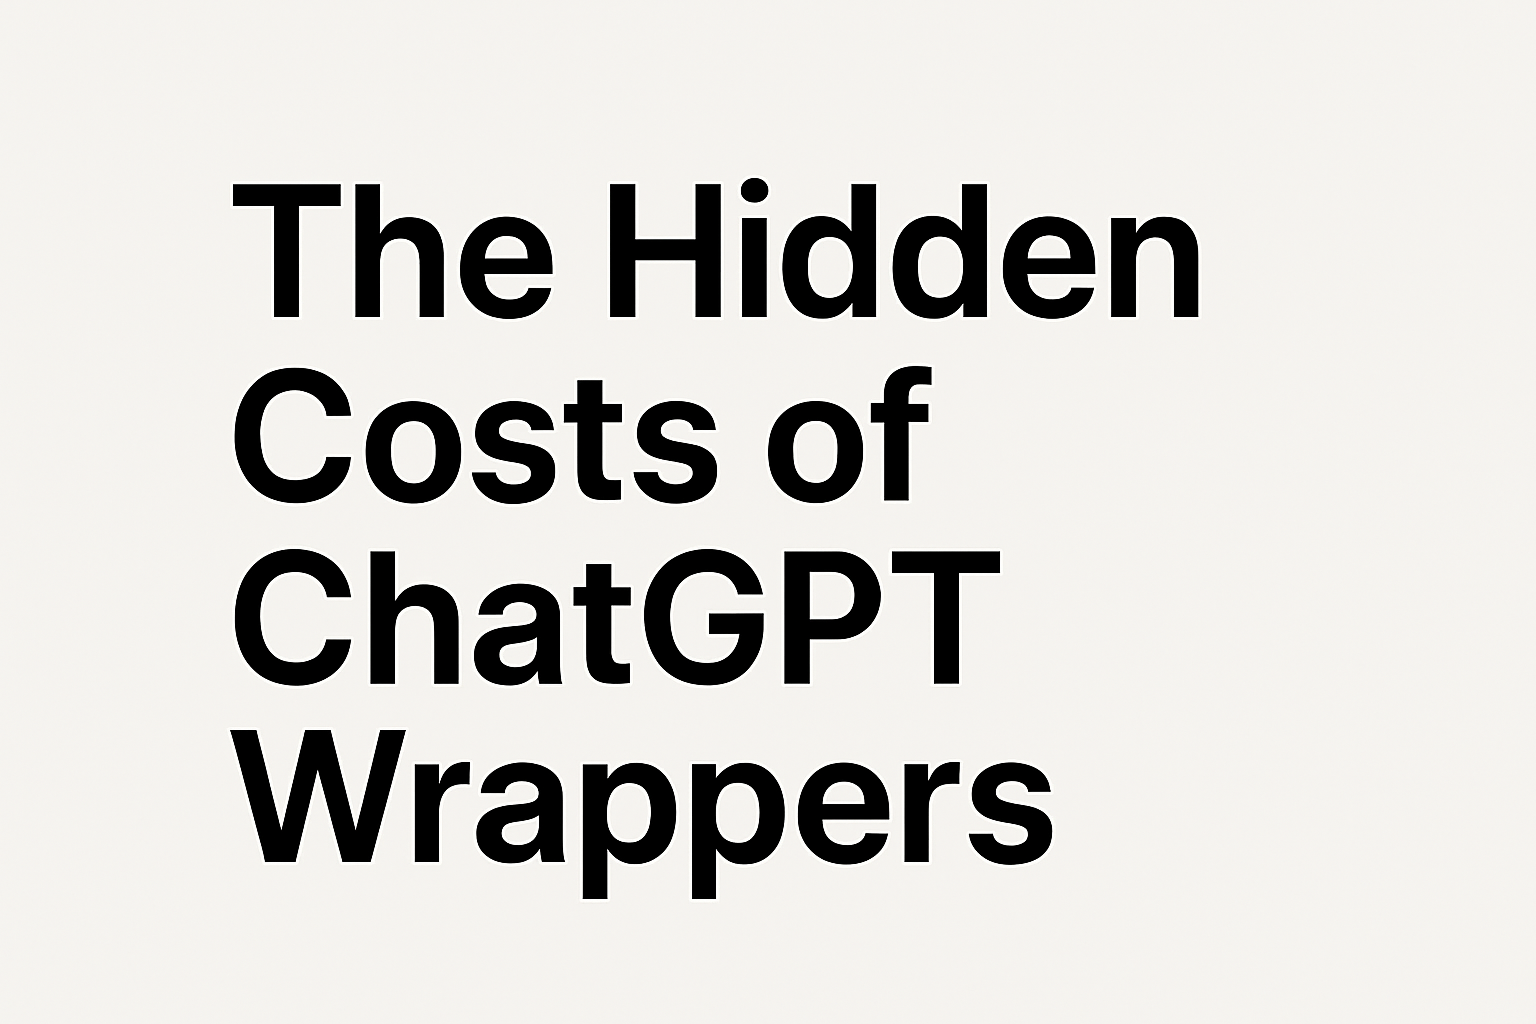
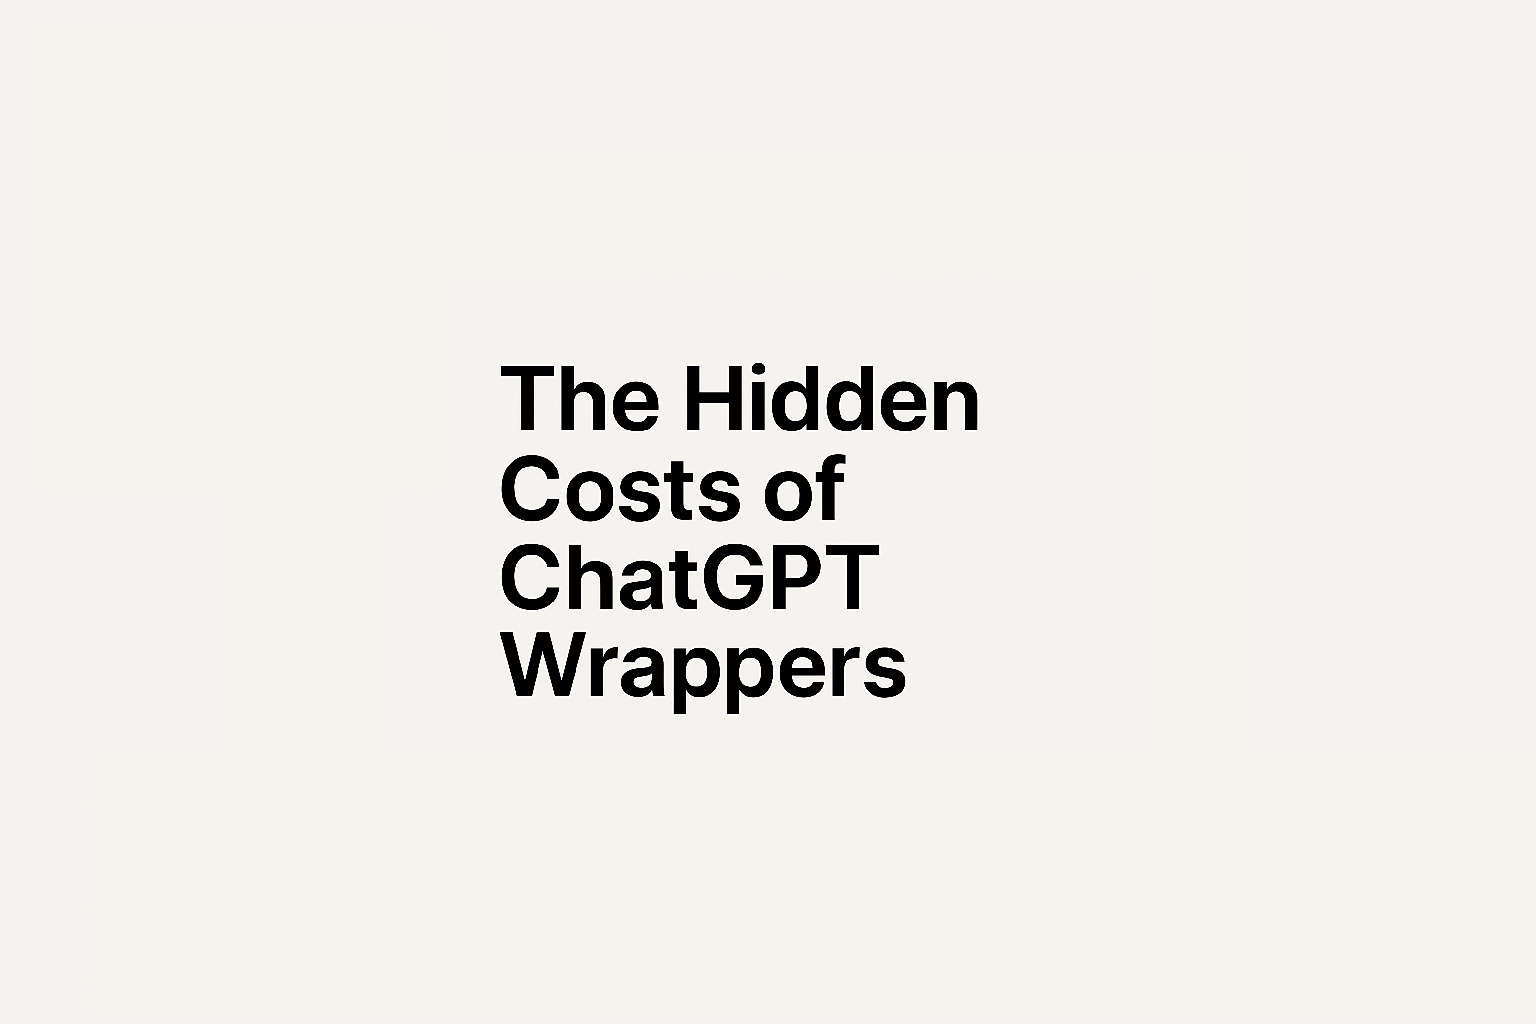
Add SurePrep vs AI tools deep-dive article

Changed region(s): [[0.125, 0.3438, 0.6875, 0.875], [0.1562, 0.1562, 0.7812, 0.3125]]

diff --git a/content/ai/sureprep-in-an-ai-first-world.md b/content/ai/sureprep-in-an-ai-first-world.md
@@ -1,0 +1,271 @@
+---
+title: "SurePrep in an AI-First World: Still Relevant or Being Replaced?"
+description: "A practical look at SurePrep’s template-driven approach vs AI-native 1040 automation: K-1s, brokerage statements, workpapers, and where each option fits."
+author: "Koen Van Duyse"
+authorLinkedIn: "https://www.linkedin.com/in/koenvanduyse/"
+authorReddit: "https://www.reddit.com/user/RepliKoen/"
+authorTPE: "https://www.taxproexchange.com/p/koen-van-duyse-8123510e"
+authorBio: "Koen has been working in AI for the last two years, with an emphasis on conversational AI. In his spare time he is partner of a small tax firm in Southern California and runs the Tax Pro Exchange."
+authorImage: "/images/authors/koen-van-duyse.jpg"
+date: "2025-11-20"
+category: "AI"
+pillar: "Tax Technology"
+slug: "/ai/sureprep-in-an-ai-first-world"
+keywords:
+  - "SurePrep"
+  - "SurePrep alternatives"
+  - "SurePrep vs"
+  - "AI tax automation"
+  - "1040 automation"
+  - "K-1 extraction"
+  - "brokerage 1099 automation"
+  - "UltraTax automation"
+  - "Black Ore"
+  - "Truss tax"
+  - "Solomon Tax"
+  - "HiveTax"
+  - "Juno Tax"
+  - "OCR vs AI tax"
+  - "tax document automation"
+  - "AI for tax professionals"
+  - "SurePrep vs AI tools"
+previewImage: "/images/sueprep.png"
+imageAlt: "Comparison of SurePrep and modern AI-first tax automation tools"
+canonical: "https://www.taxproexchange.com/ai/sureprep-in-an-ai-first-world"
+readingTime: 11
+robots: "index,follow"
+ogTitle: "SurePrep in an AI-First World: Still Relevant or Being Replaced?"
+ogDescription: "SurePrep’s template-driven 1040 automation vs AI-native tools on K-1s, brokerage statements, workpapers, and reviewer workflows."
+ogImage: "/images/og-image.png"
+twitterCard: "summary_large_image"
+twitterTitle: "SurePrep in an AI-First World: Still Relevant?"
+twitterDescription: "How SurePrep’s OCR-driven workflow compares to AI-first tax automation for 1040s."
+twitterImage: "/images/og-image.png"
+schemaType: "Article"
+---
+
+If you complete 1040s, you've probably asked the same question as many other Tax Professionals on Reddit today, "Has SurePrep become the default in 2026 or have we finally reached a point that AI native tools are better than SurePrep, especially for messy K-1's, consolidated 1099s, and long footnotes?"
+
+This is not simply a question of "OCR is bad, AI is good." The answer is much more complicated. From publicly posted experiences on both r/taxpros and r/tax, practitioners have been discussing the areas that SurePrep does exceptionally well in, the areas where SurePrep causes friction and the areas where newer AI first platforms are gaining some real traction. This article combines those publicly expressed experiences with an analysis of the differences between template driven data extraction and model driven AI Systems, so that your firm can determine which type of solution fits best with your particular type of documents.
+
+> **Note:** Any statements made about accuracy or speed within this article relate to the experiences of public practitioners, and NOT the results from internal testing. As such, the accuracy or speed of the claims will likely vary based upon the format of the K-1's, the types of brokerage statements, the quality of the scans, and the expectations of the reviewers.
+
+---
+
+## What SurePrep Still Does Well  
+These strengths are consistently echoed across Reddit.
+
+- **UltraTax depth and ecosystem fit.**  
+  SurePrep remains the reliable choice for UltraTax-centric firms.  
+  <div style="background-color: #f8f9fa; border: 1px solid #e9ecef; border-radius: 8px; padding: 16px; margin: 16px 0; position: relative; overflow: visible;">
+    <a href="https://www.reddit.com/r/taxpros/comments/1cu9gz8/considering_getting_sure_prep_to_use_with_ut/" target="_blank" rel="noopener noreferrer" style="position: absolute; top: 0; right: 0; z-index: 10; display: inline-block; line-height: 0; vertical-align: top;">
+      <img src="https://www.redditstatic.com/desktop2x/img/favicon/favicon-32x32.png" alt="Reddit" width="20" height="20" style="opacity: 0.7; display: block; margin: 0;" />
+    </a>
+    <p style="margin: 0; padding-right: 32px; font-style: italic; color: #495057;">"Every return in our office gets a SurePrep binder… huge gains in efficiency."</p>
+  </div>
+
+- **Standardized workpapers (SPbinder).**  
+  SPbinder’s structure, audit trail, and consistency remain industry benchmarks.
+
+- **High page-count returns with mostly standard docs.**  
+  Template extraction performs reliably when packets are dominated by W-2s, 1099s, 1098s, and organizer pages.
+
+- **Outsourced prep option.**  
+  Still a meaningful differentiator for firms needing predictable overflow capacity.
+
+---
+
+## Where Firms Report Friction  
+These themes appear repeatedly across public practitioner discussions.
+
+### **1. Template sensitivity on complex docs**  
+K-1s, basis schedules, footnotes, and state attachments regularly require manual cleanup.
+
+<div style="background-color: #f8f9fa; border: 1px solid #e9ecef; border-radius: 8px; padding: 16px; margin: 16px 0; position: relative; overflow: visible;">
+  <a href="https://www.reddit.com/r/tax/comments/1kapmmo/k1_extraction_and_automation/" target="_blank" rel="noopener noreferrer" style="position: absolute; top: 0; right: 0; z-index: 10; display: inline-block; line-height: 0; vertical-align: top;">
+    <img src="https://www.redditstatic.com/desktop2x/img/favicon/favicon-32x32.png" alt="Reddit" width="20" height="20" style="opacity: 0.7; display: block; margin: 0;" />
+  </a>
+  <p style="margin: 0; padding-right: 32px; font-style: italic; color: #495057;">"It worked great for W-2s, 1099s, and simple K-1s. Once things get complicated and there's a lot in the supporting statements, it won't be as great."</p>
+</div>
+
+### **2. Reviewer rework**  
+Practitioners often note that time saved on extraction is offset by time spent correcting template mis-matches, particularly for pass-through entities.
+
+### **3. UX and navigation**  
+Some reviewers find SurePrep’s interface slow or “click-heavy” compared to newer AI platforms.
+
+### **4. Cost and licensing issues**  
+Smaller firms frequently mention challenges with unit-based pricing.
+
+<div style="background-color: #f8f9fa; border: 1px solid #e9ecef; border-radius: 8px; padding: 16px; margin: 16px 0; position: relative; overflow: visible;">
+  <a href="https://www.reddit.com/r/taxpros/comments/u65r0v/sureprep_taxcaddy_thoughts_after_another_tax/" target="_blank" rel="noopener noreferrer" style="position: absolute; top: 0; right: 0; z-index: 10; display: inline-block; line-height: 0; vertical-align: top;">
+    <img src="https://www.redditstatic.com/desktop2x/img/favicon/favicon-32x32.png" alt="Reddit" width="20" height="20" style="opacity: 0.7; display: block; margin: 0;" />
+  </a>
+  <p style="margin: 0; padding-right: 32px; font-style: italic; color: #495057;">"We over-estimated and will probably have paid for 30 units beyond what we can carry over… their whole buying units process sucks."</p>
+</div>
+
+---
+
+## What Changed: From Templates to Model-Driven Extraction  
+
+AI-native tools go beyond templates by combining OCR with models that **infer structure, context, and relationships**, not just detect fields.
+
+This enables:
+
+- Correctly grouping K-1s by taxpayer/entity  
+- Extracting footnotes *with explanations*  
+- Flagging superseded vs non-superseded statements  
+- Interpreting messy brokerage PDFs  
+- Handling handwriting and poor scans more gracefully  
+
+Practitioners describe this shift as promising but not perfect:
+
+<div style="background-color: #f8f9fa; border: 1px solid #e9ecef; border-radius: 8px; padding: 16px; margin: 16px 0; position: relative; overflow: visible;">
+  <a href="https://www.reddit.com/r/taxpros/comments/1lcv7hg/ai_tax_prep_solutions/" target="_blank" rel="noopener noreferrer" style="position: absolute; top: 0; right: 0; z-index: 10; display: inline-block; line-height: 0; vertical-align: top;">
+    <img src="https://www.redditstatic.com/desktop2x/img/favicon/favicon-32x32.png" alt="Reddit" width="20" height="20" style="opacity: 0.7; display: block; margin: 0;" />
+  </a>
+  <p style="margin: 0; padding-right: 32px; font-style: italic; color: #495057;">"By the time I submit it, wait, import, and proof it, I could've done it myself."</p>
+</div>
+
+At the same time, others report that AI tools are becoming genuinely helpful, especially for messy brokerage statements and K-1 footnotes.
+
+The biggest differentiator emerging is **explainable extraction**: showing *why* a value mapped, and pointing reviewers to the exact page snippet.
+
+---
+
+## Tool Cards: See Live Profiles and Screenshots  
+
+We maintain up-to-date cards for all major players, AI-native and template-driven, so firms can compare screenshots, strengths, limitations, and pricing.
+
+**→ Explore the AI Tax Tools Directory: [/ai/tools](/ai/tools)**
+
+---
+
+## Comparison Table (High-Level)
+
+ **Definitions:**  
+> - **Speed** = relative processing speed reported by practitioners  
+> - **Cost** = $, $$, $$$ tiers  
+> - **K-1/Brokerage ratings** = strength based on public user feedback  
+> - **Reviewer aid** = Flags → Flags + rationales  
+> - **Workpapers automation** = None → Bookmarking → AI binder  
+
+| Tool            | Extraction Approach | K-1s | Brokerage | Speed     | Cost | Workpapers Automation  | Reviewer Aid           | Best For                                         |
+|-----------------|---------------------|:----:|:--------:|-----------|:----:|------------------------|------------------------|--------------------------------------------------|
+| **SurePrep**    | Template-driven     |  △   |    △     | Slow      | $$$  | Binder (manual)        | Flags                  | Large UltraTax firms, standardized docs         |
+| **Black Ore**   | AI-native           | ✓✓✓  |   ✓✓     | Fast      | $$   | AI binder              | Flags + rationales     | K-1 & brokerage-heavy returns                   |
+| **Truss**       | AI-native           |  ✓   |   ✓✓     | Very fast | $$   | Bookmarking/exports    | Flags                  | 1040-heavy firms with UT/Lacerte workflows      |
+| **Solomon**     | AI-native           | ✓✓✓  |  ✓✓✓     | Medium    | $$$  | AI binder              | Flags + rationales     | HNW + multi-entity firms                        |
+| **HiveTax**     | AI-native           |  ✓   |    ✓     | Fast      |  $   | AI binder (emerging)   | Flags                  | Small/mid firms moving to AI                   |
+| **Juno Tax**    | AI-native           |  ✓   |    ✓     | Medium    |  $   | Binder + validation    | Flags + rationales     | Prep + advisory workflows                       |
+| **CCH Autoflow**| Template-driven     |  ✓   |    △     | Medium    | $$   | Binder (CCH)           | Flags                  | CCH ecosystem                                   |
+| **GruntWorx**   | Template-driven     |  △   |    △     | Medium    |  $   | Bookmarking/extract    | Flags                  | Budget-conscious small firms                    |
+
+*Symbols: ✓✓✓ strong, ✓ good, △ variable, based on public practitioner feedback.*
+
+---
+
+## Buyer’s Checklist for a 10-Return Evaluation  
+
+While firms vary, Reddit discussions highlight the same recommendation: **don't rely on demos, test with your own messy returns.**
+
+Here’s a structured checklist:
+
+1. **Document mix.**  
+   What % of your workload is K-1s, complex brokerage, organizers, handwritten notes?
+
+2. **Accuracy definition.**  
+   Field-level accuracy vs reviewer acceptance vs final-return adjustments.
+
+3. **Explainability.**  
+   Can you click from a value to the exact page and snippet?
+
+4. **Superseded detection.**  
+   Critical for brokerage packets with multiple “corrected” statements.
+
+5. **Exports & overrides.**  
+   Does the tool handle UltraTax/Lacerte/CCH overrides cleanly?
+
+6. **Workpapers compatibility.**  
+   Keep SPbinder/CCH binder or adopt an AI-generated binder?
+
+7. **Onboarding.**  
+   Reviewers typically need ~1 to 2 weeks of consistent use before efficiency gains appear.
+
+8. **Security.**  
+   SOC 2, retention windows, and whether your data is used to train models.
+
+---
+
+## Is SurePrep Still Relevant?  
+
+**Yes, very much so, for the right firm profile.**
+
+SurePrep remains a strong fit if:
+
+- You are deeply embedded in the **UltraTax ecosystem**  
+- Your reviewers rely heavily on **SPbinder**  
+- Your returns lean toward **standardized W-2/1099/organizer-heavy** packets  
+
+But Reddit sentiment and the rapid evolution of AI-native tools point to a clear shift:
+
+- AI tools are improving quickly on **K-1s, basis notes, entity mapping, and footnotes**  
+- They offer **faster iteration** and more frequent updates  
+- Smaller firms report **lower total cost** with AI tools due to subscription-based pricing  
+
+As one Redditor puts it:
+
+<div style="background-color: #f8f9fa; border: 1px solid #e9ecef; border-radius: 8px; padding: 16px; margin: 16px 0; position: relative; overflow: visible;">
+  <a href="https://www.reddit.com/r/taxpros/comments/1hfzcyn/ai_tax_prep_experience/" target="_blank" rel="noopener noreferrer" style="position: absolute; top: 0; right: 0; z-index: 10; display: inline-block; line-height: 0; vertical-align: top;">
+    <img src="https://www.redditstatic.com/desktop2x/img/favicon/favicon-32x32.png" alt="Reddit" width="20" height="20" style="opacity: 0.7; display: block; margin: 0;" />
+  </a>
+  <p style="margin: 0; padding-right: 32px; font-style: italic; color: #495057;">"AI tools look promising but it's not a silver bullet. Complex returns still need heavy review."</p>
+</div>
+
+That mindset reflects the current landscape well.
+
+---
+
+## Real-World Examples Shared Online  
+
+Across public discussions, preparers describe patterns like:
+
+- Better performance by AI tools on multi-entity K-1 packets  
+- More reliable handling of mixed-quality brokerage statements  
+- Useful reviewer flags paired with source page links  
+- Time savings primarily in the **review** stage, not just extraction  
+
+These experiences aren't universal, but they describe the trend.
+
+---
+
+## FAQ  
+
+**Is SurePrep still the best fit for UltraTax firms?**  
+Often, yes, especially if SPbinder is deeply integrated into your workflow.
+
+**Which tools handle K-1 footnotes and brokerage edge cases best?**  
+Public practitioner feedback suggests AI-native platforms generally do better on footnotes and entity context. But results depend heavily on your document mix.
+
+**Can AI tools replace SPbinder entirely?**  
+Some firms adopt AI-generated binders; others keep SPbinder and feed it better data. Both approaches are common.
+
+**How should small firms measure ROI?**  
+Track reviewer touch time and manual overrides across ~10 returns.
+
+**What about security?**  
+Confirm SOC 2, data retention, and whether training occurs on your data.
+
+---
+
+## The Verdict
+
+SurePrep will continue to be a viable option in 2026, specifically for firms and teams centered around UltraTax, as well as those with preference for structured workpapers, it has shown to remain solid on standardized packets and workpaper flows.
+
+However, the AI native platforms are now clearly out performing the template based systems for K-1's, consolidated brokerage packets, footnotes and basis statements, multi entity returns, which can result in less reviewer rework, improved footnote management and more predictable pricing for many firms, especially those that are smaller in size.
+
+To determine what workflow best fits your firm's needs for 2026, we recommend the simplest way to do this, run a small, controlled test with 8-10 of your actual, messy tax returns.
+
+Additionally, if you would like to leverage AI driven research and document chat functionality without having to host your own model, our partner TaxGPT currently supports both of these functions and integrates seamlessly into all phases of prep processes.
+
+**Explore live tool cards and screenshots:** [/ai/tools](/ai/tools)